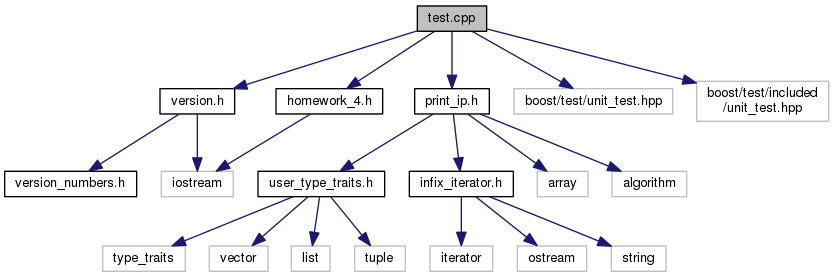
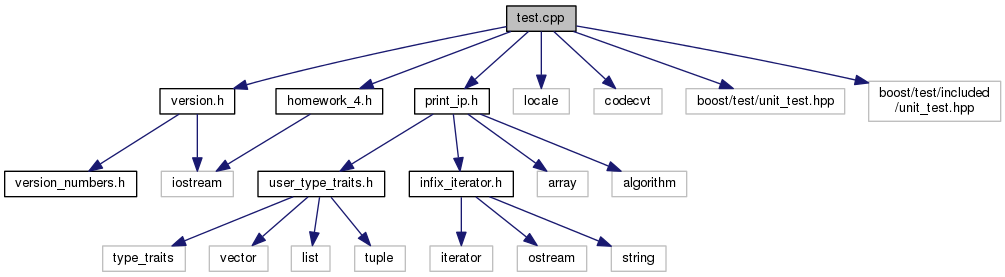
Deploy a-rodionov/Otus.Cpp.Homework4 to github.com/a-rodionov/Otus.Cpp.Homework4.git:gh-pages

diff --git a/print__ip_8h_source.html b/print__ip_8h_source.html
@@ -92,43 +92,43 @@ var searchBox = new SearchBox("searchBox", "search",false,'Поиск');
 <div class="line"><a name="l00010"></a><span class="lineno">   10</span>&#160;<span class="preprocessor">#include &lt;array&gt;</span></div>
 <div class="line"><a name="l00011"></a><span class="lineno">   11</span>&#160;<span class="preprocessor">#include &lt;algorithm&gt;</span></div>
 <div class="line"><a name="l00012"></a><span class="lineno">   12</span>&#160;</div>
-<div class="line"><a name="l00018"></a><span class="lineno">   18</span>&#160;<span class="keyword">template</span>&lt;<span class="keyword">typename</span> T, std::enable_if_t&lt;is_<span class="keywordtype">int</span>egral_v&lt;T&gt;, <span class="keywordtype">int</span>&gt; = 0&gt;</div>
-<div class="line"><a name="l00019"></a><span class="lineno"><a class="line" href="print__ip_8h.html#ac1df03b4c5eca5765c426ce24d2a9499">   19</a></span>&#160;<span class="keyword">auto</span> <a class="code" href="print__ip_8h.html#ac1df03b4c5eca5765c426ce24d2a9499">print_ip</a>(std::ostream&amp; out, <span class="keyword">const</span> T&amp; ip)</div>
+<div class="line"><a name="l00018"></a><span class="lineno">   18</span>&#160;<span class="keyword">template</span>&lt;<span class="keyword">typename</span> U, <span class="keyword">typename</span> T, std::enable_if_t&lt;is_<span class="keywordtype">int</span>egral_v&lt;T&gt;, <span class="keywordtype">int</span>&gt; = 0&gt;</div>
+<div class="line"><a name="l00019"></a><span class="lineno"><a class="line" href="print__ip_8h.html#a9e1275afe8425ae43f8af93451d53dde">   19</a></span>&#160;<span class="keyword">auto</span> <a class="code" href="print__ip_8h.html#a9e1275afe8425ae43f8af93451d53dde">print_ip</a>(U&amp; out, <span class="keyword">const</span> T&amp; ip)</div>
 <div class="line"><a name="l00020"></a><span class="lineno">   20</span>&#160;{</div>
 <div class="line"><a name="l00021"></a><span class="lineno">   21</span>&#160;  <span class="keyword">const</span> std::array&lt;unsigned char, sizeof(T)&gt;* octets = <span class="keyword">reinterpret_cast&lt;</span>decltype(octets)<span class="keyword">&gt;</span>(&amp;ip);</div>
 <div class="line"><a name="l00022"></a><span class="lineno">   22</span>&#160;  std::copy(std::crbegin(*octets), std::crend(*octets), <a class="code" href="classinfix__ostream__iterator.html">infix_ostream_iterator&lt;int&gt;</a>(out, <span class="stringliteral">&quot;.&quot;</span>));</div>
 <div class="line"><a name="l00023"></a><span class="lineno">   23</span>&#160;  out &lt;&lt; <span class="stringliteral">&quot;\n&quot;</span>;</div>
 <div class="line"><a name="l00024"></a><span class="lineno">   24</span>&#160;}</div>
 <div class="line"><a name="l00025"></a><span class="lineno">   25</span>&#160;</div>
-<div class="line"><a name="l00031"></a><span class="lineno">   31</span>&#160;<span class="keyword">template</span>&lt;<span class="keyword">typename</span> T, std::enable_if_t&lt;is_stl_container_v&lt;T&gt;, <span class="keywordtype">int</span>&gt; = 0&gt;</div>
-<div class="line"><a name="l00032"></a><span class="lineno">   32</span>&#160;<span class="keyword">auto</span> <a class="code" href="print__ip_8h.html#ac1df03b4c5eca5765c426ce24d2a9499">print_ip</a>(std::ostream&amp; out, <span class="keyword">const</span> T&amp; ip)</div>
+<div class="line"><a name="l00031"></a><span class="lineno">   31</span>&#160;<span class="keyword">template</span>&lt;<span class="keyword">typename</span> U, <span class="keyword">typename</span> T, std::enable_if_t&lt;is_stl_container_v&lt;T&gt;, <span class="keywordtype">int</span>&gt; = 0&gt;</div>
+<div class="line"><a name="l00032"></a><span class="lineno">   32</span>&#160;<span class="keyword">auto</span> <a class="code" href="print__ip_8h.html#a9e1275afe8425ae43f8af93451d53dde">print_ip</a>(U&amp; out, <span class="keyword">const</span> T&amp; ip)</div>
 <div class="line"><a name="l00033"></a><span class="lineno">   33</span>&#160;{</div>
 <div class="line"><a name="l00034"></a><span class="lineno">   34</span>&#160;  std::copy(std::cbegin(ip), std::cend(ip), <a class="code" href="classinfix__ostream__iterator.html">infix_ostream_iterator&lt;typename T::value_type&gt;</a>(out, <span class="stringliteral">&quot;.&quot;</span>));</div>
 <div class="line"><a name="l00035"></a><span class="lineno">   35</span>&#160;    out &lt;&lt; <span class="stringliteral">&quot;\n&quot;</span>;</div>
 <div class="line"><a name="l00036"></a><span class="lineno">   36</span>&#160;}</div>
 <div class="line"><a name="l00037"></a><span class="lineno">   37</span>&#160;</div>
-<div class="line"><a name="l00044"></a><span class="lineno">   44</span>&#160;<span class="keyword">template</span>&lt;<span class="keyword">typename</span> T, <span class="keywordtype">size_t</span> ... idx&gt;</div>
-<div class="line"><a name="l00045"></a><span class="lineno"><a class="line" href="print__ip_8h.html#aed0f4c88f38cb707216966c3cc7a043a">   45</a></span>&#160;<span class="keyword">auto</span> <a class="code" href="print__ip_8h.html#aed0f4c88f38cb707216966c3cc7a043a">print_ip_tuple</a>(std::ostream&amp; out, <span class="keyword">const</span> T&amp; ip, std::index_sequence&lt;idx...&gt;)</div>
+<div class="line"><a name="l00044"></a><span class="lineno">   44</span>&#160;<span class="keyword">template</span>&lt;<span class="keyword">typename</span> U, <span class="keyword">typename</span> T, <span class="keywordtype">size_t</span> ... idx&gt;</div>
+<div class="line"><a name="l00045"></a><span class="lineno"><a class="line" href="print__ip_8h.html#a6ce0d8b384fb9e495c073e972f62bc18">   45</a></span>&#160;<span class="keyword">auto</span> <a class="code" href="print__ip_8h.html#a6ce0d8b384fb9e495c073e972f62bc18">print_ip_tuple</a>(U&amp; out, <span class="keyword">const</span> T&amp; ip, std::index_sequence&lt;idx...&gt;)</div>
 <div class="line"><a name="l00046"></a><span class="lineno">   46</span>&#160;{</div>
 <div class="line"><a name="l00047"></a><span class="lineno">   47</span>&#160;  ((out &lt;&lt; (idx == 0 ? <span class="stringliteral">&quot;&quot;</span> : <span class="stringliteral">&quot;.&quot;</span>) &lt;&lt; std::get&lt;idx&gt;(ip)), ...) &lt;&lt; <span class="stringliteral">&quot;\n&quot;</span>;</div>
 <div class="line"><a name="l00048"></a><span class="lineno">   48</span>&#160;}</div>
 <div class="line"><a name="l00049"></a><span class="lineno">   49</span>&#160;</div>
-<div class="line"><a name="l00055"></a><span class="lineno">   55</span>&#160;<span class="keyword">template</span>&lt;<span class="keyword">typename</span> T, std::enable_if_t&lt;is_homogeneous_tuple_v&lt;T&gt;, <span class="keywordtype">int</span>&gt; = 0&gt;</div>
-<div class="line"><a name="l00056"></a><span class="lineno">   56</span>&#160;<span class="keyword">auto</span> <a class="code" href="print__ip_8h.html#ac1df03b4c5eca5765c426ce24d2a9499">print_ip</a>(std::ostream&amp; out, <span class="keyword">const</span> T&amp; ip)</div>
+<div class="line"><a name="l00055"></a><span class="lineno">   55</span>&#160;<span class="keyword">template</span>&lt;<span class="keyword">typename</span> U, <span class="keyword">typename</span> T, std::enable_if_t&lt;is_homogeneous_tuple_v&lt;T&gt;, <span class="keywordtype">int</span>&gt; = 0&gt;</div>
+<div class="line"><a name="l00056"></a><span class="lineno">   56</span>&#160;<span class="keyword">auto</span> <a class="code" href="print__ip_8h.html#a9e1275afe8425ae43f8af93451d53dde">print_ip</a>(U&amp; out, <span class="keyword">const</span> T&amp; ip)</div>
 <div class="line"><a name="l00057"></a><span class="lineno">   57</span>&#160;{</div>
-<div class="line"><a name="l00058"></a><span class="lineno">   58</span>&#160;  <a class="code" href="print__ip_8h.html#aed0f4c88f38cb707216966c3cc7a043a">print_ip_tuple</a>(out, ip, std::make_index_sequence&lt;std::tuple_size&lt;T&gt;::value&gt;{});</div>
+<div class="line"><a name="l00058"></a><span class="lineno">   58</span>&#160;  <a class="code" href="print__ip_8h.html#a6ce0d8b384fb9e495c073e972f62bc18">print_ip_tuple</a>(out, ip, std::make_index_sequence&lt;std::tuple_size&lt;T&gt;::value&gt;{});</div>
 <div class="line"><a name="l00059"></a><span class="lineno">   59</span>&#160;}</div>
 <div class="line"><a name="l00060"></a><span class="lineno">   60</span>&#160;</div>
-<div class="line"><a name="l00067"></a><span class="lineno">   67</span>&#160;<span class="keyword">template</span>&lt;<span class="keyword">typename</span> T,</div>
+<div class="line"><a name="l00067"></a><span class="lineno">   67</span>&#160;<span class="keyword">template</span>&lt;<span class="keyword">typename</span> U, <span class="keyword">typename</span> T,</div>
 <div class="line"><a name="l00068"></a><span class="lineno">   68</span>&#160;        std::enable_if_t&lt;</div>
 <div class="line"><a name="l00069"></a><span class="lineno">   69</span>&#160;            !(is_integral_v&lt;T&gt; || is_stl_container_v&lt;T&gt; || is_homogeneous_tuple_v&lt;T&gt;)</div>
 <div class="line"><a name="l00070"></a><span class="lineno">   70</span>&#160;            , <span class="keywordtype">int</span>&gt; = 0&gt;</div>
-<div class="line"><a name="l00071"></a><span class="lineno">   71</span>&#160;<span class="keyword">auto</span> <a class="code" href="print__ip_8h.html#ac1df03b4c5eca5765c426ce24d2a9499">print_ip</a>(std::ostream&amp; out, <span class="keyword">const</span> T&amp; ip)</div>
+<div class="line"><a name="l00071"></a><span class="lineno">   71</span>&#160;<span class="keyword">auto</span> <a class="code" href="print__ip_8h.html#a9e1275afe8425ae43f8af93451d53dde">print_ip</a>(U&amp; out, <span class="keyword">const</span> T&amp; ip)</div>
 <div class="line"><a name="l00072"></a><span class="lineno">   72</span>&#160;{</div>
 <div class="line"><a name="l00073"></a><span class="lineno">   73</span>&#160;  out &lt;&lt; ip &lt;&lt; <span class="stringliteral">&quot;\n&quot;</span>;</div>
 <div class="line"><a name="l00074"></a><span class="lineno">   74</span>&#160;}</div>
-<div class="ttc" id="print__ip_8h_html_aed0f4c88f38cb707216966c3cc7a043a"><div class="ttname"><a href="print__ip_8h.html#aed0f4c88f38cb707216966c3cc7a043a">print_ip_tuple</a></div><div class="ttdeci">auto print_ip_tuple(std::ostream &amp;out, const T &amp;ip, std::index_sequence&lt; idx...&gt;)</div><div class="ttdoc">Шаблонная функция печати кортежа. </div><div class="ttdef"><b>Definition:</b> print_ip.h:45</div></div>
-<div class="ttc" id="print__ip_8h_html_ac1df03b4c5eca5765c426ce24d2a9499"><div class="ttname"><a href="print__ip_8h.html#ac1df03b4c5eca5765c426ce24d2a9499">print_ip</a></div><div class="ttdeci">auto print_ip(std::ostream &amp;out, const T &amp;ip)</div><div class="ttdoc">Шаблонная функция печати ip адреса, заданного любым целочисленным типом. </div><div class="ttdef"><b>Definition:</b> print_ip.h:19</div></div>
+<div class="ttc" id="print__ip_8h_html_a9e1275afe8425ae43f8af93451d53dde"><div class="ttname"><a href="print__ip_8h.html#a9e1275afe8425ae43f8af93451d53dde">print_ip</a></div><div class="ttdeci">auto print_ip(U &amp;out, const T &amp;ip)</div><div class="ttdoc">Шаблонная функция печати ip адреса, заданного любым целочисленным типом. </div><div class="ttdef"><b>Definition:</b> print_ip.h:19</div></div>
+<div class="ttc" id="print__ip_8h_html_a6ce0d8b384fb9e495c073e972f62bc18"><div class="ttname"><a href="print__ip_8h.html#a6ce0d8b384fb9e495c073e972f62bc18">print_ip_tuple</a></div><div class="ttdeci">auto print_ip_tuple(U &amp;out, const T &amp;ip, std::index_sequence&lt; idx...&gt;)</div><div class="ttdoc">Шаблонная функция печати кортежа. </div><div class="ttdef"><b>Definition:</b> print_ip.h:45</div></div>
 <div class="ttc" id="classinfix__ostream__iterator_html"><div class="ttname"><a href="classinfix__ostream__iterator.html">infix_ostream_iterator</a></div><div class="ttdef"><b>Definition:</b> infix_iterator.h:36</div></div>
 <div class="ttc" id="user__type__traits_8h_html"><div class="ttname"><a href="user__type__traits_8h.html">user_type_traits.h</a></div><div class="ttdoc">Определения метафункций, расширяющих функционал type_traits стандартной библиотеки. </div></div>
 <div class="ttc" id="infix__iterator_8h_html"><div class="ttname"><a href="infix__iterator_8h.html">infix_iterator.h</a></div><div class="ttdoc">Определение однопроходного итератора вывода. </div></div>

diff --git a/print__ip_8h.html b/print__ip_8h.html
@@ -113,28 +113,28 @@ var searchBox = new SearchBox("searchBox", "search",false,'Поиск');
 <table class="memberdecls">
 <tr class="heading"><td colspan="2"><h2 class="groupheader"><a name="func-members"></a>
 Функции</h2></td></tr>
-<tr class="memitem:ac1df03b4c5eca5765c426ce24d2a9499"><td class="memTemplParams" colspan="2">template&lt;typename T , std::enable_if_t&lt; is_integral_v&lt; T &gt;, int &gt;  = 0&gt; </td></tr>
-<tr class="memitem:ac1df03b4c5eca5765c426ce24d2a9499"><td class="memTemplItemLeft" align="right" valign="top">auto&#160;</td><td class="memTemplItemRight" valign="bottom"><a class="el" href="print__ip_8h.html#ac1df03b4c5eca5765c426ce24d2a9499">print_ip</a> (std::ostream &amp;out, const T &amp;ip)</td></tr>
-<tr class="memdesc:ac1df03b4c5eca5765c426ce24d2a9499"><td class="mdescLeft">&#160;</td><td class="mdescRight">Шаблонная функция печати ip адреса, заданного любым целочисленным типом.  <a href="#ac1df03b4c5eca5765c426ce24d2a9499">Подробнее...</a><br/></td></tr>
-<tr class="separator:ac1df03b4c5eca5765c426ce24d2a9499"><td class="memSeparator" colspan="2">&#160;</td></tr>
-<tr class="memitem:aed0f4c88f38cb707216966c3cc7a043a"><td class="memTemplParams" colspan="2">template&lt;typename T , size_t... idx&gt; </td></tr>
-<tr class="memitem:aed0f4c88f38cb707216966c3cc7a043a"><td class="memTemplItemLeft" align="right" valign="top">auto&#160;</td><td class="memTemplItemRight" valign="bottom"><a class="el" href="print__ip_8h.html#aed0f4c88f38cb707216966c3cc7a043a">print_ip_tuple</a> (std::ostream &amp;out, const T &amp;ip, std::index_sequence&lt; idx...&gt;)</td></tr>
-<tr class="memdesc:aed0f4c88f38cb707216966c3cc7a043a"><td class="mdescLeft">&#160;</td><td class="mdescRight">Шаблонная функция печати кортежа.  <a href="#aed0f4c88f38cb707216966c3cc7a043a">Подробнее...</a><br/></td></tr>
-<tr class="separator:aed0f4c88f38cb707216966c3cc7a043a"><td class="memSeparator" colspan="2">&#160;</td></tr>
+<tr class="memitem:a9e1275afe8425ae43f8af93451d53dde"><td class="memTemplParams" colspan="2">template&lt;typename U , typename T , std::enable_if_t&lt; is_integral_v&lt; T &gt;, int &gt;  = 0&gt; </td></tr>
+<tr class="memitem:a9e1275afe8425ae43f8af93451d53dde"><td class="memTemplItemLeft" align="right" valign="top">auto&#160;</td><td class="memTemplItemRight" valign="bottom"><a class="el" href="print__ip_8h.html#a9e1275afe8425ae43f8af93451d53dde">print_ip</a> (U &amp;out, const T &amp;ip)</td></tr>
+<tr class="memdesc:a9e1275afe8425ae43f8af93451d53dde"><td class="mdescLeft">&#160;</td><td class="mdescRight">Шаблонная функция печати ip адреса, заданного любым целочисленным типом.  <a href="#a9e1275afe8425ae43f8af93451d53dde">Подробнее...</a><br/></td></tr>
+<tr class="separator:a9e1275afe8425ae43f8af93451d53dde"><td class="memSeparator" colspan="2">&#160;</td></tr>
+<tr class="memitem:a6ce0d8b384fb9e495c073e972f62bc18"><td class="memTemplParams" colspan="2">template&lt;typename U , typename T , size_t... idx&gt; </td></tr>
+<tr class="memitem:a6ce0d8b384fb9e495c073e972f62bc18"><td class="memTemplItemLeft" align="right" valign="top">auto&#160;</td><td class="memTemplItemRight" valign="bottom"><a class="el" href="print__ip_8h.html#a6ce0d8b384fb9e495c073e972f62bc18">print_ip_tuple</a> (U &amp;out, const T &amp;ip, std::index_sequence&lt; idx...&gt;)</td></tr>
+<tr class="memdesc:a6ce0d8b384fb9e495c073e972f62bc18"><td class="mdescLeft">&#160;</td><td class="mdescRight">Шаблонная функция печати кортежа.  <a href="#a6ce0d8b384fb9e495c073e972f62bc18">Подробнее...</a><br/></td></tr>
+<tr class="separator:a6ce0d8b384fb9e495c073e972f62bc18"><td class="memSeparator" colspan="2">&#160;</td></tr>
 </table>
 <a name="details" id="details"></a><h2 class="groupheader">Подробное описание</h2>
 <div class="textblock"><p>Определения шаблонных функций печати ip адреса. </p>
 </div><h2 class="groupheader">Функции</h2>
-<a class="anchor" id="ac1df03b4c5eca5765c426ce24d2a9499"></a>
+<a class="anchor" id="a9e1275afe8425ae43f8af93451d53dde"></a>
 <div class="memitem">
 <div class="memproto">
 <div class="memtemplate">
-template&lt;typename T , std::enable_if_t&lt; is_integral_v&lt; T &gt;, int &gt;  = 0&gt; </div>
+template&lt;typename U , typename T , std::enable_if_t&lt; is_integral_v&lt; T &gt;, int &gt;  = 0&gt; </div>
       <table class="memname">
         <tr>
           <td class="memname">auto print_ip </td>
           <td>(</td>
-          <td class="paramtype">std::ostream &amp;&#160;</td>
+          <td class="paramtype">U &amp;&#160;</td>
           <td class="paramname"><em>out</em>, </td>
         </tr>
         <tr>
@@ -167,16 +167,16 @@ template&lt;typename T , std::enable_if_t&lt; is_integral_v&lt; T &gt;, int &gt;
 
 </div>
 </div>
-<a class="anchor" id="aed0f4c88f38cb707216966c3cc7a043a"></a>
+<a class="anchor" id="a6ce0d8b384fb9e495c073e972f62bc18"></a>
 <div class="memitem">
 <div class="memproto">
 <div class="memtemplate">
-template&lt;typename T , size_t... idx&gt; </div>
+template&lt;typename U , typename T , size_t... idx&gt; </div>
       <table class="memname">
         <tr>
           <td class="memname">auto print_ip_tuple </td>
           <td>(</td>
-          <td class="paramtype">std::ostream &amp;&#160;</td>
+          <td class="paramtype">U &amp;&#160;</td>
           <td class="paramname"><em>out</em>, </td>
         </tr>
         <tr>

diff --git a/search/all_1.js b/search/all_1.js
@@ -1,5 +1,5 @@
 var searchData=
 [
-  ['boost_5fauto_5ftest_5fcase',['BOOST_AUTO_TEST_CASE',['../test_8cpp.html#a7b77218fdc0e112515af540d59bffd7a',1,'BOOST_AUTO_TEST_CASE(test_version_valid):&#160;test.cpp'],['../test_8cpp.html#a02eb29acd6ac035f9d0e1b4925005e10',1,'BOOST_AUTO_TEST_CASE(test_is_stl_container_v):&#160;test.cpp'],['../test_8cpp.html#a1a5171d5bf9346f5451dbe035f208522',1,'BOOST_AUTO_TEST_CASE(test_is_integral_v):&#160;test.cpp'],['../test_8cpp.html#a2d8b2b58ad759bf5eb2765a640474f33',1,'BOOST_AUTO_TEST_CASE(test_is_tuple_v):&#160;test.cpp'],['../test_8cpp.html#a1655a5a0ec52b044fdb1b1f1d3feea06',1,'BOOST_AUTO_TEST_CASE(test_is_all_same_v):&#160;test.cpp'],['../test_8cpp.html#a52396d8837c656a862f82cea6fff2804',1,'BOOST_AUTO_TEST_CASE(test_is_homogeneous_tuple_v):&#160;test.cpp'],['../test_8cpp.html#a3b9459b77ef70eae351d2be901d70cda',1,'BOOST_AUTO_TEST_CASE(test_print_ip_integral):&#160;test.cpp'],['../test_8cpp.html#a312f736d2e4daafd416c6e81c09188de',1,'BOOST_AUTO_TEST_CASE(test_print_ip_string):&#160;test.cpp'],['../test_8cpp.html#a627f7df1cfc2c3e313cfe510e671e1f3',1,'BOOST_AUTO_TEST_CASE(test_print_ip_vector):&#160;test.cpp'],['../test_8cpp.html#ac3d9e91fb35603224049cfb3daf4e5e4',1,'BOOST_AUTO_TEST_CASE(test_print_ip_list):&#160;test.cpp'],['../test_8cpp.html#a5838b3bb9aba93e91ea589a326d85d02',1,'BOOST_AUTO_TEST_CASE(test_print_ip_tuple):&#160;test.cpp'],['../test_8cpp.html#a968e4747b7b0673eb13c97e685563803',1,'BOOST_AUTO_TEST_CASE(test_homework_4_valid):&#160;test.cpp']]],
+  ['boost_5fauto_5ftest_5fcase',['BOOST_AUTO_TEST_CASE',['../test_8cpp.html#a7b77218fdc0e112515af540d59bffd7a',1,'BOOST_AUTO_TEST_CASE(test_version_valid):&#160;test.cpp'],['../test_8cpp.html#a02eb29acd6ac035f9d0e1b4925005e10',1,'BOOST_AUTO_TEST_CASE(test_is_stl_container_v):&#160;test.cpp'],['../test_8cpp.html#a1a5171d5bf9346f5451dbe035f208522',1,'BOOST_AUTO_TEST_CASE(test_is_integral_v):&#160;test.cpp'],['../test_8cpp.html#a2d8b2b58ad759bf5eb2765a640474f33',1,'BOOST_AUTO_TEST_CASE(test_is_tuple_v):&#160;test.cpp'],['../test_8cpp.html#a1655a5a0ec52b044fdb1b1f1d3feea06',1,'BOOST_AUTO_TEST_CASE(test_is_all_same_v):&#160;test.cpp'],['../test_8cpp.html#a52396d8837c656a862f82cea6fff2804',1,'BOOST_AUTO_TEST_CASE(test_is_homogeneous_tuple_v):&#160;test.cpp'],['../test_8cpp.html#a3b9459b77ef70eae351d2be901d70cda',1,'BOOST_AUTO_TEST_CASE(test_print_ip_integral):&#160;test.cpp'],['../test_8cpp.html#a312f736d2e4daafd416c6e81c09188de',1,'BOOST_AUTO_TEST_CASE(test_print_ip_string):&#160;test.cpp'],['../test_8cpp.html#a6de53de43b83760b918b1b4b5622b041',1,'BOOST_AUTO_TEST_CASE(test_print_ip_wstring):&#160;test.cpp'],['../test_8cpp.html#a627f7df1cfc2c3e313cfe510e671e1f3',1,'BOOST_AUTO_TEST_CASE(test_print_ip_vector):&#160;test.cpp'],['../test_8cpp.html#ac3d9e91fb35603224049cfb3daf4e5e4',1,'BOOST_AUTO_TEST_CASE(test_print_ip_list):&#160;test.cpp'],['../test_8cpp.html#a5838b3bb9aba93e91ea589a326d85d02',1,'BOOST_AUTO_TEST_CASE(test_print_ip_tuple):&#160;test.cpp'],['../test_8cpp.html#a968e4747b7b0673eb13c97e685563803',1,'BOOST_AUTO_TEST_CASE(test_homework_4_valid):&#160;test.cpp']]],
   ['boost_5ftest_5fmodule',['BOOST_TEST_MODULE',['../test_8cpp.html#a6b2a3852db8bb19ab6909bac01859985',1,'test.cpp']]]
 ];

diff --git a/test_8cpp.html b/test_8cpp.html
@@ -91,6 +91,8 @@ var searchBox = new SearchBox("searchBox", "search",false,'Поиск');
 <div class="textblock"><code>#include &quot;<a class="el" href="version_8h_source.html">version.h</a>&quot;</code><br/>
 <code>#include &quot;<a class="el" href="homework__4_8h_source.html">homework_4.h</a>&quot;</code><br/>
 <code>#include &quot;<a class="el" href="print__ip_8h_source.html">print_ip.h</a>&quot;</code><br/>
+<code>#include &lt;locale&gt;</code><br/>
+<code>#include &lt;codecvt&gt;</code><br/>
 <code>#include &lt;boost/test/unit_test.hpp&gt;</code><br/>
 <code>#include &lt;boost/test/included/unit_test.hpp&gt;</code><br/>
 </div><div class="textblock"><div class="dynheader">
@@ -124,6 +126,8 @@ var searchBox = new SearchBox("searchBox", "search",false,'Поиск');
 <tr class="separator:a3b9459b77ef70eae351d2be901d70cda"><td class="memSeparator" colspan="2">&#160;</td></tr>
 <tr class="memitem:a312f736d2e4daafd416c6e81c09188de"><td class="memItemLeft" align="right" valign="top">&#160;</td><td class="memItemRight" valign="bottom"><a class="el" href="test_8cpp.html#a312f736d2e4daafd416c6e81c09188de">BOOST_AUTO_TEST_CASE</a> (test_print_ip_string)</td></tr>
 <tr class="separator:a312f736d2e4daafd416c6e81c09188de"><td class="memSeparator" colspan="2">&#160;</td></tr>
+<tr class="memitem:a6de53de43b83760b918b1b4b5622b041"><td class="memItemLeft" align="right" valign="top">&#160;</td><td class="memItemRight" valign="bottom"><a class="el" href="test_8cpp.html#a6de53de43b83760b918b1b4b5622b041">BOOST_AUTO_TEST_CASE</a> (test_print_ip_wstring)</td></tr>
+<tr class="separator:a6de53de43b83760b918b1b4b5622b041"><td class="memSeparator" colspan="2">&#160;</td></tr>
 <tr class="memitem:a627f7df1cfc2c3e313cfe510e671e1f3"><td class="memItemLeft" align="right" valign="top">&#160;</td><td class="memItemRight" valign="bottom"><a class="el" href="test_8cpp.html#a627f7df1cfc2c3e313cfe510e671e1f3">BOOST_AUTO_TEST_CASE</a> (test_print_ip_vector)</td></tr>
 <tr class="separator:a627f7df1cfc2c3e313cfe510e671e1f3"><td class="memSeparator" colspan="2">&#160;</td></tr>
 <tr class="memitem:ac3d9e91fb35603224049cfb3daf4e5e4"><td class="memItemLeft" align="right" valign="top">&#160;</td><td class="memItemRight" valign="bottom"><a class="el" href="test_8cpp.html#ac3d9e91fb35603224049cfb3daf4e5e4">BOOST_AUTO_TEST_CASE</a> (test_print_ip_list)</td></tr>
@@ -267,6 +271,22 @@ var searchBox = new SearchBox("searchBox", "search",false,'Поиск');
           <td class="memname">BOOST_AUTO_TEST_CASE </td>
           <td>(</td>
           <td class="paramtype">test_print_ip_string&#160;</td>
+          <td class="paramname"></td><td>)</td>
+          <td></td>
+        </tr>
+      </table>
+</div><div class="memdoc">
+
+</div>
+</div>
+<a class="anchor" id="a6de53de43b83760b918b1b4b5622b041"></a>
+<div class="memitem">
+<div class="memproto">
+      <table class="memname">
+        <tr>
+          <td class="memname">BOOST_AUTO_TEST_CASE </td>
+          <td>(</td>
+          <td class="paramtype">test_print_ip_wstring&#160;</td>
           <td class="paramname"></td><td>)</td>
           <td></td>
         </tr>

diff --git a/search/functions_0.js b/search/functions_0.js
@@ -1,4 +1,4 @@
 var searchData=
 [
-  ['boost_5fauto_5ftest_5fcase',['BOOST_AUTO_TEST_CASE',['../test_8cpp.html#a7b77218fdc0e112515af540d59bffd7a',1,'BOOST_AUTO_TEST_CASE(test_version_valid):&#160;test.cpp'],['../test_8cpp.html#a02eb29acd6ac035f9d0e1b4925005e10',1,'BOOST_AUTO_TEST_CASE(test_is_stl_container_v):&#160;test.cpp'],['../test_8cpp.html#a1a5171d5bf9346f5451dbe035f208522',1,'BOOST_AUTO_TEST_CASE(test_is_integral_v):&#160;test.cpp'],['../test_8cpp.html#a2d8b2b58ad759bf5eb2765a640474f33',1,'BOOST_AUTO_TEST_CASE(test_is_tuple_v):&#160;test.cpp'],['../test_8cpp.html#a1655a5a0ec52b044fdb1b1f1d3feea06',1,'BOOST_AUTO_TEST_CASE(test_is_all_same_v):&#160;test.cpp'],['../test_8cpp.html#a52396d8837c656a862f82cea6fff2804',1,'BOOST_AUTO_TEST_CASE(test_is_homogeneous_tuple_v):&#160;test.cpp'],['../test_8cpp.html#a3b9459b77ef70eae351d2be901d70cda',1,'BOOST_AUTO_TEST_CASE(test_print_ip_integral):&#160;test.cpp'],['../test_8cpp.html#a312f736d2e4daafd416c6e81c09188de',1,'BOOST_AUTO_TEST_CASE(test_print_ip_string):&#160;test.cpp'],['../test_8cpp.html#a627f7df1cfc2c3e313cfe510e671e1f3',1,'BOOST_AUTO_TEST_CASE(test_print_ip_vector):&#160;test.cpp'],['../test_8cpp.html#ac3d9e91fb35603224049cfb3daf4e5e4',1,'BOOST_AUTO_TEST_CASE(test_print_ip_list):&#160;test.cpp'],['../test_8cpp.html#a5838b3bb9aba93e91ea589a326d85d02',1,'BOOST_AUTO_TEST_CASE(test_print_ip_tuple):&#160;test.cpp'],['../test_8cpp.html#a968e4747b7b0673eb13c97e685563803',1,'BOOST_AUTO_TEST_CASE(test_homework_4_valid):&#160;test.cpp']]]
+  ['boost_5fauto_5ftest_5fcase',['BOOST_AUTO_TEST_CASE',['../test_8cpp.html#a7b77218fdc0e112515af540d59bffd7a',1,'BOOST_AUTO_TEST_CASE(test_version_valid):&#160;test.cpp'],['../test_8cpp.html#a02eb29acd6ac035f9d0e1b4925005e10',1,'BOOST_AUTO_TEST_CASE(test_is_stl_container_v):&#160;test.cpp'],['../test_8cpp.html#a1a5171d5bf9346f5451dbe035f208522',1,'BOOST_AUTO_TEST_CASE(test_is_integral_v):&#160;test.cpp'],['../test_8cpp.html#a2d8b2b58ad759bf5eb2765a640474f33',1,'BOOST_AUTO_TEST_CASE(test_is_tuple_v):&#160;test.cpp'],['../test_8cpp.html#a1655a5a0ec52b044fdb1b1f1d3feea06',1,'BOOST_AUTO_TEST_CASE(test_is_all_same_v):&#160;test.cpp'],['../test_8cpp.html#a52396d8837c656a862f82cea6fff2804',1,'BOOST_AUTO_TEST_CASE(test_is_homogeneous_tuple_v):&#160;test.cpp'],['../test_8cpp.html#a3b9459b77ef70eae351d2be901d70cda',1,'BOOST_AUTO_TEST_CASE(test_print_ip_integral):&#160;test.cpp'],['../test_8cpp.html#a312f736d2e4daafd416c6e81c09188de',1,'BOOST_AUTO_TEST_CASE(test_print_ip_string):&#160;test.cpp'],['../test_8cpp.html#a6de53de43b83760b918b1b4b5622b041',1,'BOOST_AUTO_TEST_CASE(test_print_ip_wstring):&#160;test.cpp'],['../test_8cpp.html#a627f7df1cfc2c3e313cfe510e671e1f3',1,'BOOST_AUTO_TEST_CASE(test_print_ip_vector):&#160;test.cpp'],['../test_8cpp.html#ac3d9e91fb35603224049cfb3daf4e5e4',1,'BOOST_AUTO_TEST_CASE(test_print_ip_list):&#160;test.cpp'],['../test_8cpp.html#a5838b3bb9aba93e91ea589a326d85d02',1,'BOOST_AUTO_TEST_CASE(test_print_ip_tuple):&#160;test.cpp'],['../test_8cpp.html#a968e4747b7b0673eb13c97e685563803',1,'BOOST_AUTO_TEST_CASE(test_homework_4_valid):&#160;test.cpp']]]
 ];

diff --git a/version__numbers_8h.html b/version__numbers_8h.html
@@ -106,7 +106,7 @@ var searchBox = new SearchBox("searchBox", "search",false,'Поиск');
 <tr class="separator:abecd2198575b690d25a741857f8390d1"><td class="memSeparator" colspan="2">&#160;</td></tr>
 <tr class="memitem:a43e23009192a3e216fefec17750d8673"><td class="memItemLeft" align="right" valign="top">#define&#160;</td><td class="memItemRight" valign="bottom"><a class="el" href="version__numbers_8h.html#a43e23009192a3e216fefec17750d8673">PROJECT_VERSION_MINOR</a>&#160;&#160;&#160;0</td></tr>
 <tr class="separator:a43e23009192a3e216fefec17750d8673"><td class="memSeparator" colspan="2">&#160;</td></tr>
-<tr class="memitem:a4a5fc96a4bdd7d68ed99ccce9ca2e77e"><td class="memItemLeft" align="right" valign="top">#define&#160;</td><td class="memItemRight" valign="bottom"><a class="el" href="version__numbers_8h.html#a4a5fc96a4bdd7d68ed99ccce9ca2e77e">PROJECT_VERSION_PATCH</a>&#160;&#160;&#160;5</td></tr>
+<tr class="memitem:a4a5fc96a4bdd7d68ed99ccce9ca2e77e"><td class="memItemLeft" align="right" valign="top">#define&#160;</td><td class="memItemRight" valign="bottom"><a class="el" href="version__numbers_8h.html#a4a5fc96a4bdd7d68ed99ccce9ca2e77e">PROJECT_VERSION_PATCH</a>&#160;&#160;&#160;6</td></tr>
 <tr class="separator:a4a5fc96a4bdd7d68ed99ccce9ca2e77e"><td class="memSeparator" colspan="2">&#160;</td></tr>
 </table>
 <a name="details" id="details"></a><h2 class="groupheader">Подробное описание</h2>
@@ -141,7 +141,7 @@ var searchBox = new SearchBox("searchBox", "search",false,'Поиск');
 <div class="memproto">
       <table class="memname">
         <tr>
-          <td class="memname">#define PROJECT_VERSION_PATCH&#160;&#160;&#160;5</td>
+          <td class="memname">#define PROJECT_VERSION_PATCH&#160;&#160;&#160;6</td>
         </tr>
       </table>
 </div><div class="memdoc">

diff --git a/version__numbers_8h_source.html b/version__numbers_8h_source.html
@@ -89,7 +89,7 @@ var searchBox = new SearchBox("searchBox", "search",false,'Поиск');
 <div class="line"><a name="l00002"></a><span class="lineno">    2</span>&#160;<span class="preprocessor"></span></div>
 <div class="line"><a name="l00008"></a><span class="lineno"><a class="line" href="version__numbers_8h.html#abecd2198575b690d25a741857f8390d1">    8</a></span>&#160;<span class="preprocessor">#define PROJECT_VERSION_MAJOR 1</span></div>
 <div class="line"><a name="l00009"></a><span class="lineno"><a class="line" href="version__numbers_8h.html#a43e23009192a3e216fefec17750d8673">    9</a></span>&#160;<span class="preprocessor"></span><span class="preprocessor">#define PROJECT_VERSION_MINOR 0</span></div>
-<div class="line"><a name="l00010"></a><span class="lineno"><a class="line" href="version__numbers_8h.html#a4a5fc96a4bdd7d68ed99ccce9ca2e77e">   10</a></span>&#160;<span class="preprocessor"></span><span class="preprocessor">#define PROJECT_VERSION_PATCH 5</span></div>
+<div class="line"><a name="l00010"></a><span class="lineno"><a class="line" href="version__numbers_8h.html#a4a5fc96a4bdd7d68ed99ccce9ca2e77e">   10</a></span>&#160;<span class="preprocessor"></span><span class="preprocessor">#define PROJECT_VERSION_PATCH 6</span></div>
 </div><!-- fragment --></div><!-- contents -->
 <!-- start footer part -->
 <hr class="footer"/><address class="footer"><small>

diff --git a/search/all_7.js b/search/all_7.js
@@ -1,8 +1,8 @@
 var searchData=
 [
-  ['print_5fip',['print_ip',['../print__ip_8h.html#ac1df03b4c5eca5765c426ce24d2a9499',1,'print_ip.h']]],
+  ['print_5fip',['print_ip',['../print__ip_8h.html#a9e1275afe8425ae43f8af93451d53dde',1,'print_ip.h']]],
   ['print_5fip_2eh',['print_ip.h',['../print__ip_8h.html',1,'']]],
-  ['print_5fip_5ftuple',['print_ip_tuple',['../print__ip_8h.html#aed0f4c88f38cb707216966c3cc7a043a',1,'print_ip.h']]],
+  ['print_5fip_5ftuple',['print_ip_tuple',['../print__ip_8h.html#a6ce0d8b384fb9e495c073e972f62bc18',1,'print_ip.h']]],
   ['project_5fversion_5fmajor',['PROJECT_VERSION_MAJOR',['../version__numbers_8h.html#abecd2198575b690d25a741857f8390d1',1,'version_numbers.h']]],
   ['project_5fversion_5fminor',['PROJECT_VERSION_MINOR',['../version__numbers_8h.html#a43e23009192a3e216fefec17750d8673',1,'version_numbers.h']]],
   ['project_5fversion_5fpatch',['PROJECT_VERSION_PATCH',['../version__numbers_8h.html#a4a5fc96a4bdd7d68ed99ccce9ca2e77e',1,'version_numbers.h']]]

diff --git a/globals.html b/globals.html
@@ -180,10 +180,10 @@ var searchBox = new SearchBox("searchBox", "search",false,'Поиск');
 
 <h3><a class="anchor" id="index_p"></a>- p -</h3><ul>
 <li>print_ip()
-: <a class="el" href="print__ip_8h.html#ac1df03b4c5eca5765c426ce24d2a9499">print_ip.h</a>
+: <a class="el" href="print__ip_8h.html#a9e1275afe8425ae43f8af93451d53dde">print_ip.h</a>
 </li>
 <li>print_ip_tuple()
-: <a class="el" href="print__ip_8h.html#aed0f4c88f38cb707216966c3cc7a043a">print_ip.h</a>
+: <a class="el" href="print__ip_8h.html#a6ce0d8b384fb9e495c073e972f62bc18">print_ip.h</a>
 </li>
 <li>PROJECT_VERSION_MAJOR
 : <a class="el" href="version__numbers_8h.html#abecd2198575b690d25a741857f8390d1">version_numbers.h</a>

diff --git a/globals_func.html b/globals_func.html
@@ -157,10 +157,10 @@ var searchBox = new SearchBox("searchBox", "search",false,'Поиск');
 
 <h3><a class="anchor" id="index_p"></a>- p -</h3><ul>
 <li>print_ip()
-: <a class="el" href="print__ip_8h.html#ac1df03b4c5eca5765c426ce24d2a9499">print_ip.h</a>
+: <a class="el" href="print__ip_8h.html#a9e1275afe8425ae43f8af93451d53dde">print_ip.h</a>
 </li>
 <li>print_ip_tuple()
-: <a class="el" href="print__ip_8h.html#aed0f4c88f38cb707216966c3cc7a043a">print_ip.h</a>
+: <a class="el" href="print__ip_8h.html#a6ce0d8b384fb9e495c073e972f62bc18">print_ip.h</a>
 </li>
 </ul>
 

diff --git a/search/functions_5.js b/search/functions_5.js
@@ -1,5 +1,5 @@
 var searchData=
 [
-  ['print_5fip',['print_ip',['../print__ip_8h.html#ac1df03b4c5eca5765c426ce24d2a9499',1,'print_ip.h']]],
-  ['print_5fip_5ftuple',['print_ip_tuple',['../print__ip_8h.html#aed0f4c88f38cb707216966c3cc7a043a',1,'print_ip.h']]]
+  ['print_5fip',['print_ip',['../print__ip_8h.html#a9e1275afe8425ae43f8af93451d53dde',1,'print_ip.h']]],
+  ['print_5fip_5ftuple',['print_ip_tuple',['../print__ip_8h.html#a6ce0d8b384fb9e495c073e972f62bc18',1,'print_ip.h']]]
 ];
